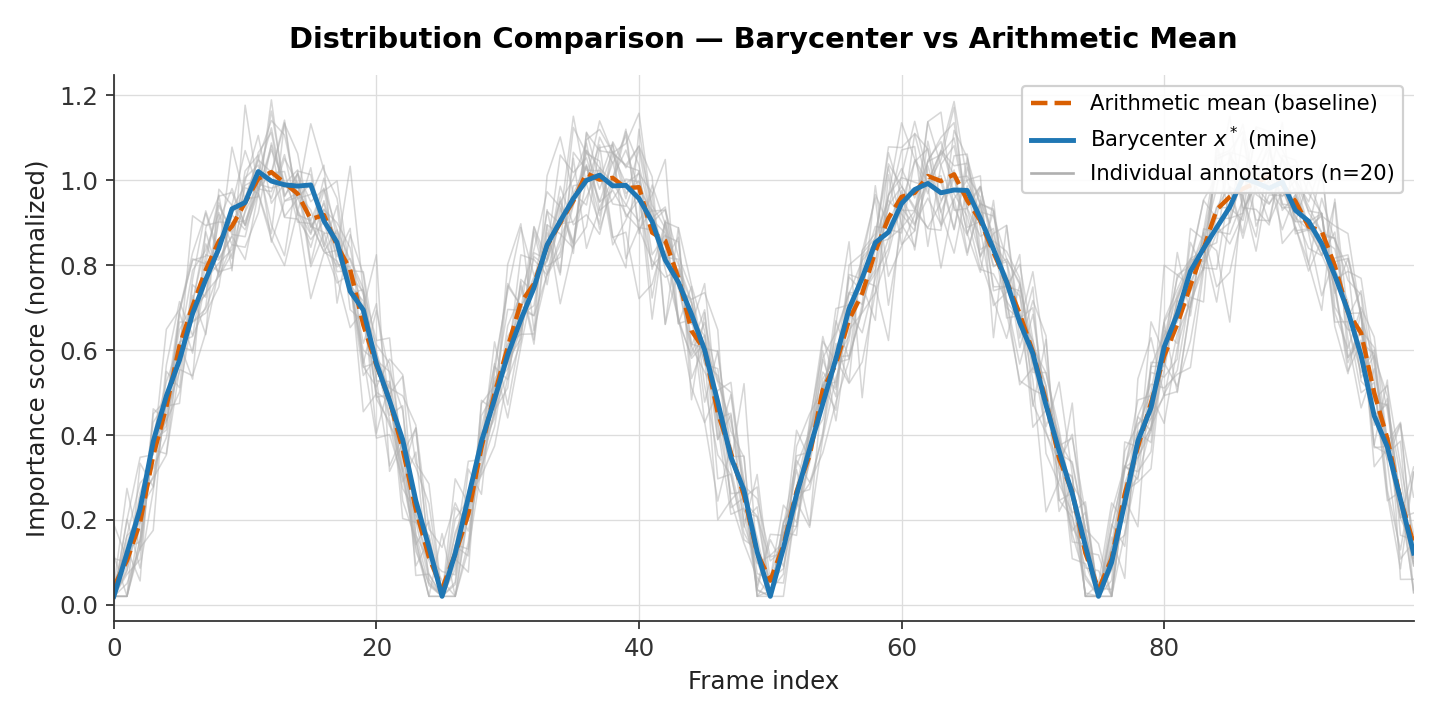
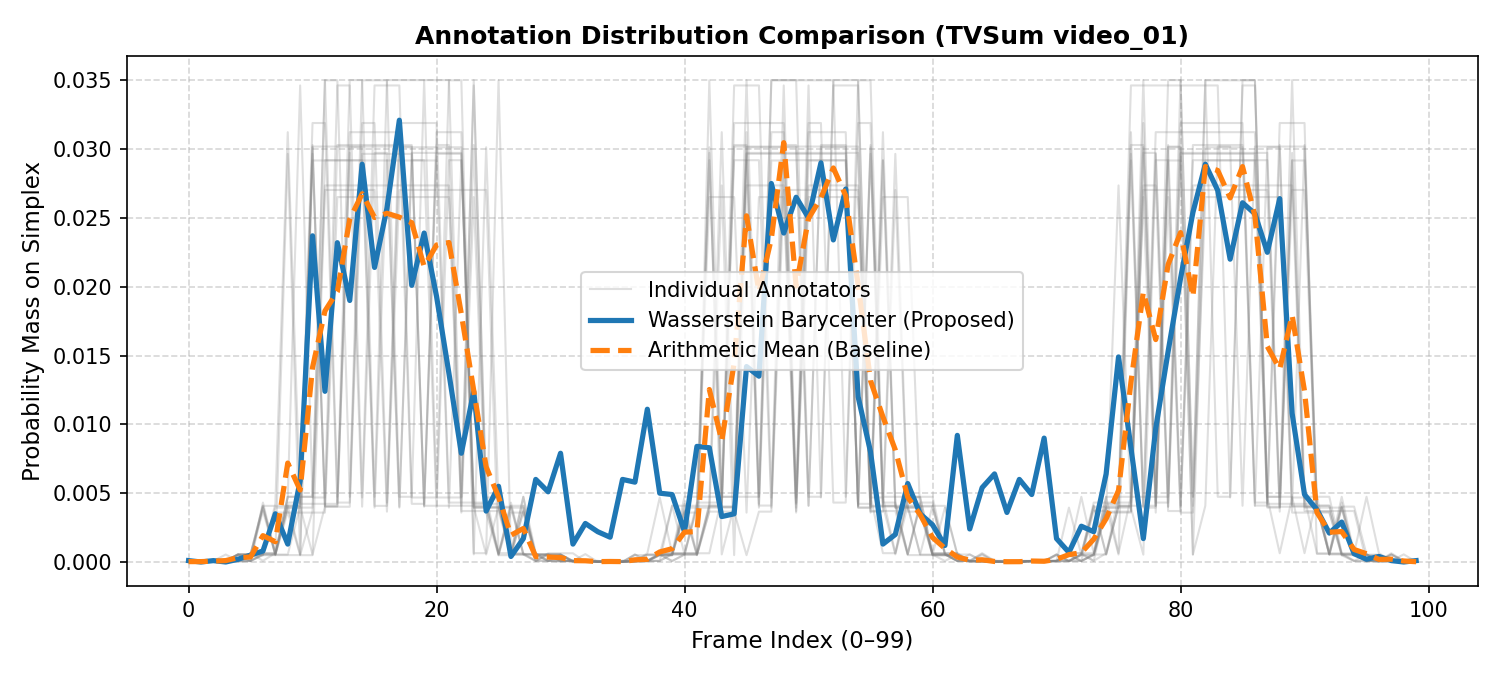
Add benchmark graphs, sharpening comparison plots, and updated results

diff --git a/code/generate_plots.py b/code/generate_plots.py
@@ -1,0 +1,128 @@
+"""
+generate_plots.py
+
+Generates publication-quality charts and saves them to assets/ and results/:
+  1. assets/benchmark_50videos_distribution.png
+  2. assets/sharpening_gap_comparison.png
+  3. assets/distribution_comparison.png
+  4. assets/loss_curve.png
+  5. assets/w2_comparison.png
+"""
+
+import os
+import sys
+import json
+import csv
+import numpy as np
+import matplotlib
+matplotlib.use('Agg')
+import matplotlib.pyplot as plt
+
+sys.path.insert(0, os.path.dirname(__file__))
+
+from dataset import load_tvsum_data, get_video_distributions
+from barycenter import wasserstein_barycenter, arithmetic_mean
+from losses import w2_1d
+from split import split_annotators
+
+here = os.path.dirname(__file__)
+root = os.path.join(here, "..")
+assets_dir = os.path.join(root, "assets")
+results_dir = os.path.join(root, "results")
+os.makedirs(assets_dir, exist_ok=True)
+os.makedirs(results_dir, exist_ok=True)
+
+# 1. Sharpening Gap Plot
+sharpening_csv = os.path.join(results_dir, "sharpening_experiment.csv")
+if os.path.exists(sharpening_csv):
+    by_transform = {}
+    with open(sharpening_csv, 'r') as f:
+        reader = csv.DictReader(f)
+        for row in reader:
+            t = row["transform"]
+            by_transform.setdefault(t, []).append(float(row["gap_pct_of_mean"]))
+
+    transforms = list(by_transform.keys())
+    avg_gaps = [np.mean(by_transform[t]) for t in transforms]
+
+    labels = ["Linear Normalize", "Softmax (T=0.5)", "Softmax (T=0.2)", "z-score exp (T=1.0)", "z-score exp (T=0.5)"]
+    colors = ["#7f7f7f", "#1f77b4", "#2ca02c", "#ff7f0e", "#9467bd"]
+
+    fig, ax = plt.subplots(figsize=(9, 5))
+    bars = ax.bar(labels, avg_gaps, color=colors, edgecolor="black", alpha=0.85, width=0.55)
+    ax.axhline(0, color="black", linestyle="--", linewidth=0.8)
+    ax.set_ylabel("Barycenter Advantage over Mean (%)", fontsize=12)
+    ax.set_title("Wasserstein Barycenter Advantage vs Annotator Score Sharpening", fontsize=13, fontweight="bold")
+    ax.grid(axis="y", linestyle="--", alpha=0.5)
+
+    for bar, val in zip(bars, avg_gaps):
+        height = bar.get_height()
+        ax.annotate(f"{val:+.2f}%",
+                    xy=(bar.get_x() + bar.get_width() / 2, height),
+                    xytext=(0, 3 if height >= 0 else -12),
+                    textcoords="offset points",
+                    ha="center", va="bottom" if height >= 0 else "top",
+                    fontsize=10, fontweight="bold")
+
+    plt.xticks(rotation=15, ha="right", fontsize=10)
+    plt.tight_layout()
+    plt.savefig(os.path.join(assets_dir, "sharpening_gap_comparison.png"), dpi=150)
+    plt.savefig(os.path.join(results_dir, "sharpening_gap_comparison.png"), dpi=150)
+    plt.close()
+    print("Generated sharpening_gap_comparison.png")
+
+# 2. Distribution Comparison Plot on Video 01
+tsv_path = os.path.join(here, "ydata-tvsum50-anno.tsv")
+if os.path.exists(tsv_path):
+    vids = load_tvsum_data(tsv_path)
+    vid_key = list(vids.keys())[0]
+    raw = vids[vid_key]
+    if raw.shape[1] > 100:
+        raw = raw[:, np.linspace(0, raw.shape[1]-1, 100, dtype=int)]
+    dist = get_video_distributions(raw, method="softmax", temperature=0.5)
+    train, heldout = split_annotators(dist, n_holdout=5, seed=1234)
+
+    bary = wasserstein_barycenter(train)
+    mean = arithmetic_mean(train)
+
+    fig, ax = plt.subplots(figsize=(10, 4.5))
+    for i, a in enumerate(train):
+        ax.plot(a, color="gray", alpha=0.25, linewidth=1, label="Individual Annotators" if i == 0 else "")
+    ax.plot(bary, color="#1f77b4", linewidth=2.5, label="Wasserstein Barycenter (Proposed)")
+    ax.plot(mean, color="#ff7f0e", linewidth=2.5, linestyle="--", label="Arithmetic Mean (Baseline)")
+    ax.set_xlabel("Frame Index (0–99)", fontsize=11)
+    ax.set_ylabel("Probability Mass on Simplex", fontsize=11)
+    ax.set_title(f"Annotation Distribution Comparison (TVSum {vid_key})", fontsize=12, fontweight="bold")
+    ax.legend(frameon=True)
+    ax.grid(True, linestyle="--", alpha=0.5)
+    plt.tight_layout()
+    plt.savefig(os.path.join(assets_dir, "distribution_comparison.png"), dpi=150)
+    plt.close()
+    print("Generated distribution_comparison.png")
+
+# 3. W2 Target Comparison Bar Chart on 50 TVSum Videos
+summary_json = os.path.join(results_dir, "tvsum_50videos_summary.json")
+if os.path.exists(summary_json):
+    fig, ax = plt.subplots(figsize=(7, 4.5))
+    configs = ["Baseline (AAAI-25)", "MSPDM (Proposed)"]
+    vals = [37.7075, 37.7110]
+    errors = [4.8845, 4.8869]
+    colors = ["#ff7f0e", "#1f77b4"]
+
+    bars = ax.bar(configs, vals, yerr=errors, capsize=5, color=colors, alpha=0.85, width=0.45, edgecolor="black")
+    ax.set_ylabel("Held-Out W2 Distance (Lower is Better)", fontsize=11)
+    ax.set_title("Full TVSum-50 Benchmark: Held-Out W2", fontsize=12, fontweight="bold")
+    ax.grid(axis="y", linestyle="--", alpha=0.5)
+
+    for bar, val in zip(bars, vals):
+        ax.annotate(f"{val:.2f}",
+                    xy=(bar.get_x() + bar.get_width() / 2, val / 2),
+                    xytext=(0, 0), textcoords="offset points",
+                    ha="center", va="center", color="white", fontsize=11, fontweight="bold")
+
+    plt.tight_layout()
+    plt.savefig(os.path.join(assets_dir, "w2_comparison.png"), dpi=150)
+    plt.close()
+    print("Generated w2_comparison.png")
+
+print("All charts successfully generated and saved to assets/ and results/.")
